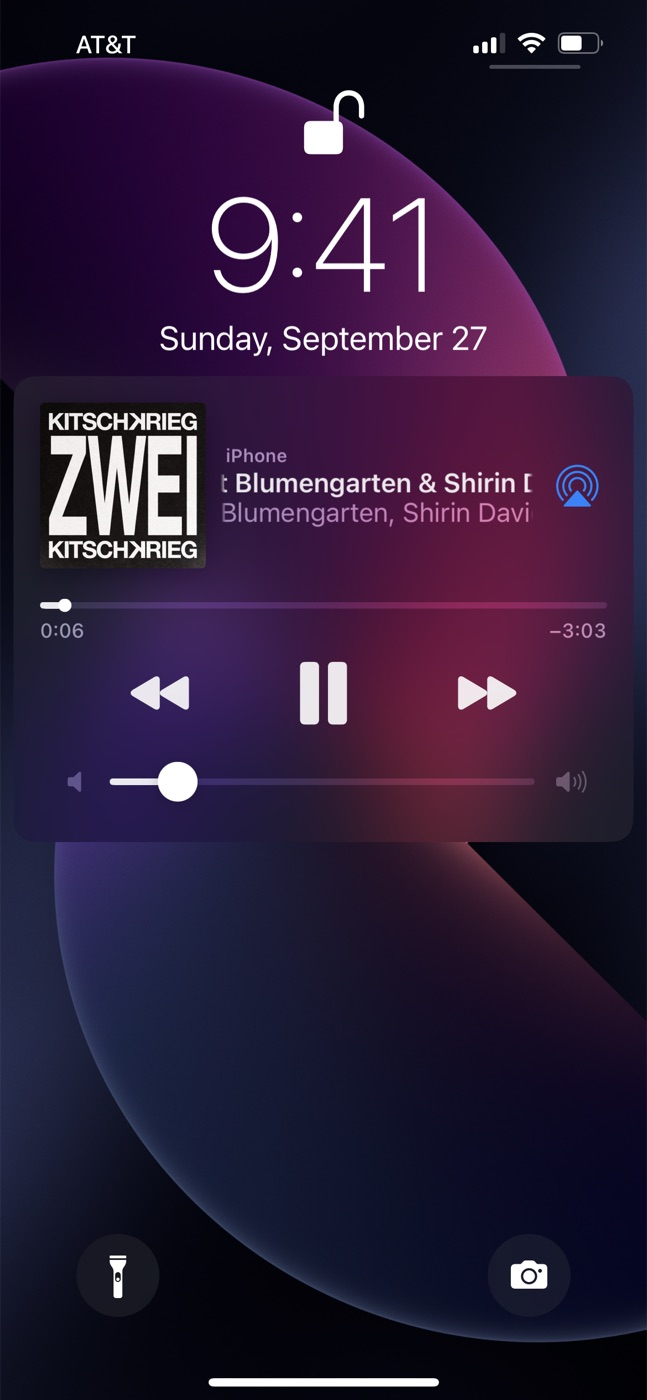
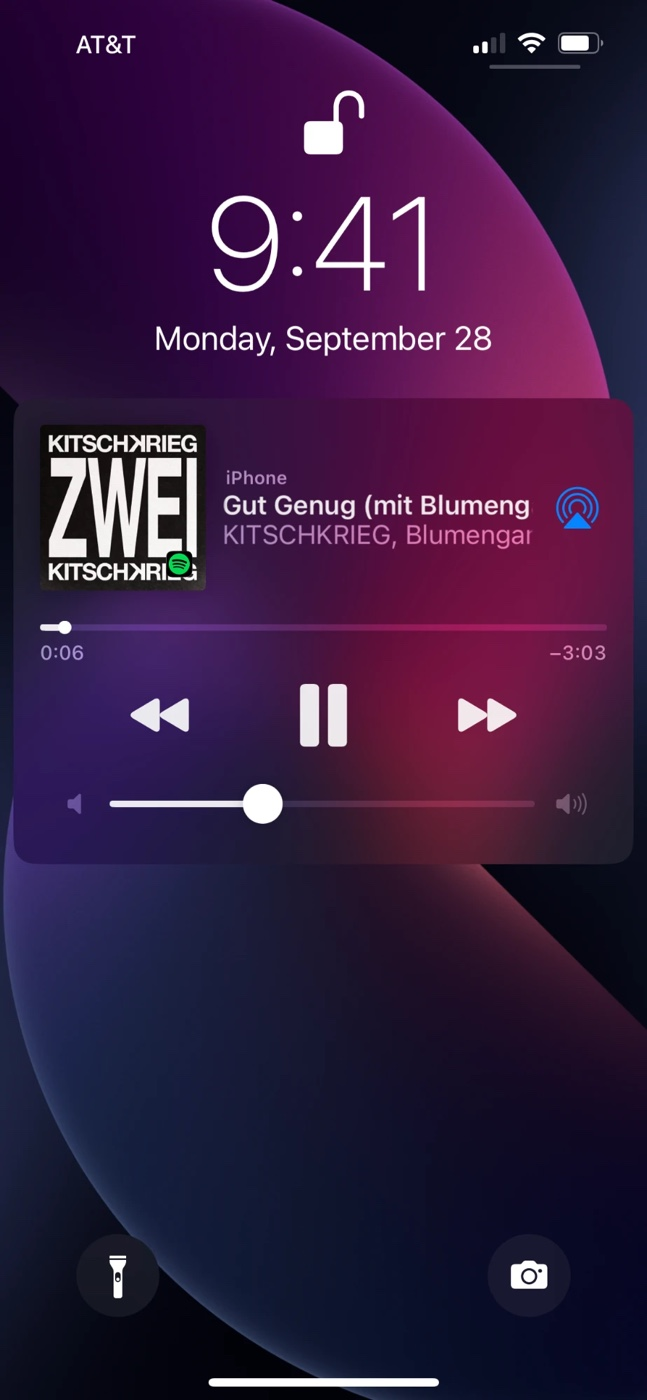
New screenshots for 1.9.2

diff --git a/README.md b/README.md
@@ -10,9 +10,9 @@ Brings the iOS 15 lock screen back to iOS 16: clock, notifications, music player
 <p align="center">
   <img src="screenshots/lockscreen.jpg" width="200" alt="Lock screen with the iOS 15 clock, padlock and Focus pill">
   &nbsp;
-  <img src="screenshots/notifications.jpg" width="200" alt="Notification Centre header and iOS 15 notification cards under the clock">
+  <img src="screenshots/notifications.jpg" width="200" alt="iOS 15 notification cards listed under the clock">
   &nbsp;
-  <img src="screenshots/music.jpg" width="200" alt="iOS 15 music player with large artwork, AirPlay button and volume slider">
+  <img src="screenshots/music.jpg" width="200" alt="iOS 15 music player with large artwork, app icon, AirPlay button and volume slider">
   &nbsp;
   <img src="screenshots/settings.jpg" width="200" alt="LockScreenRestore settings with one switch per feature">
 </p>
